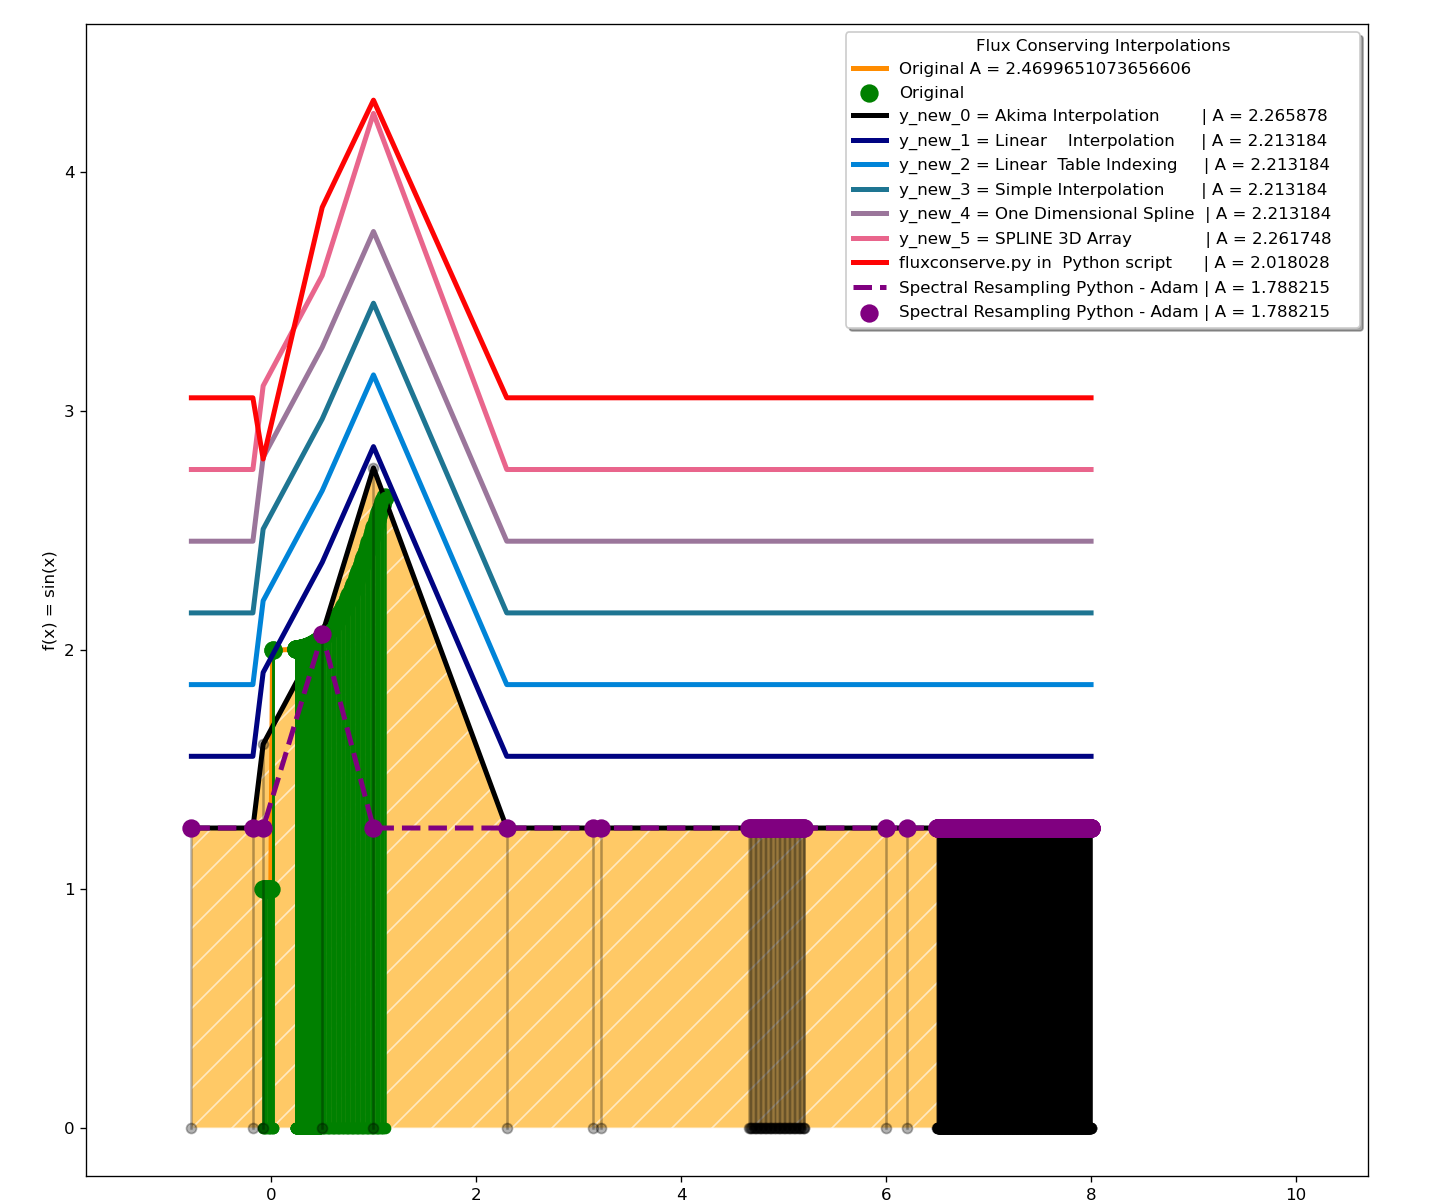
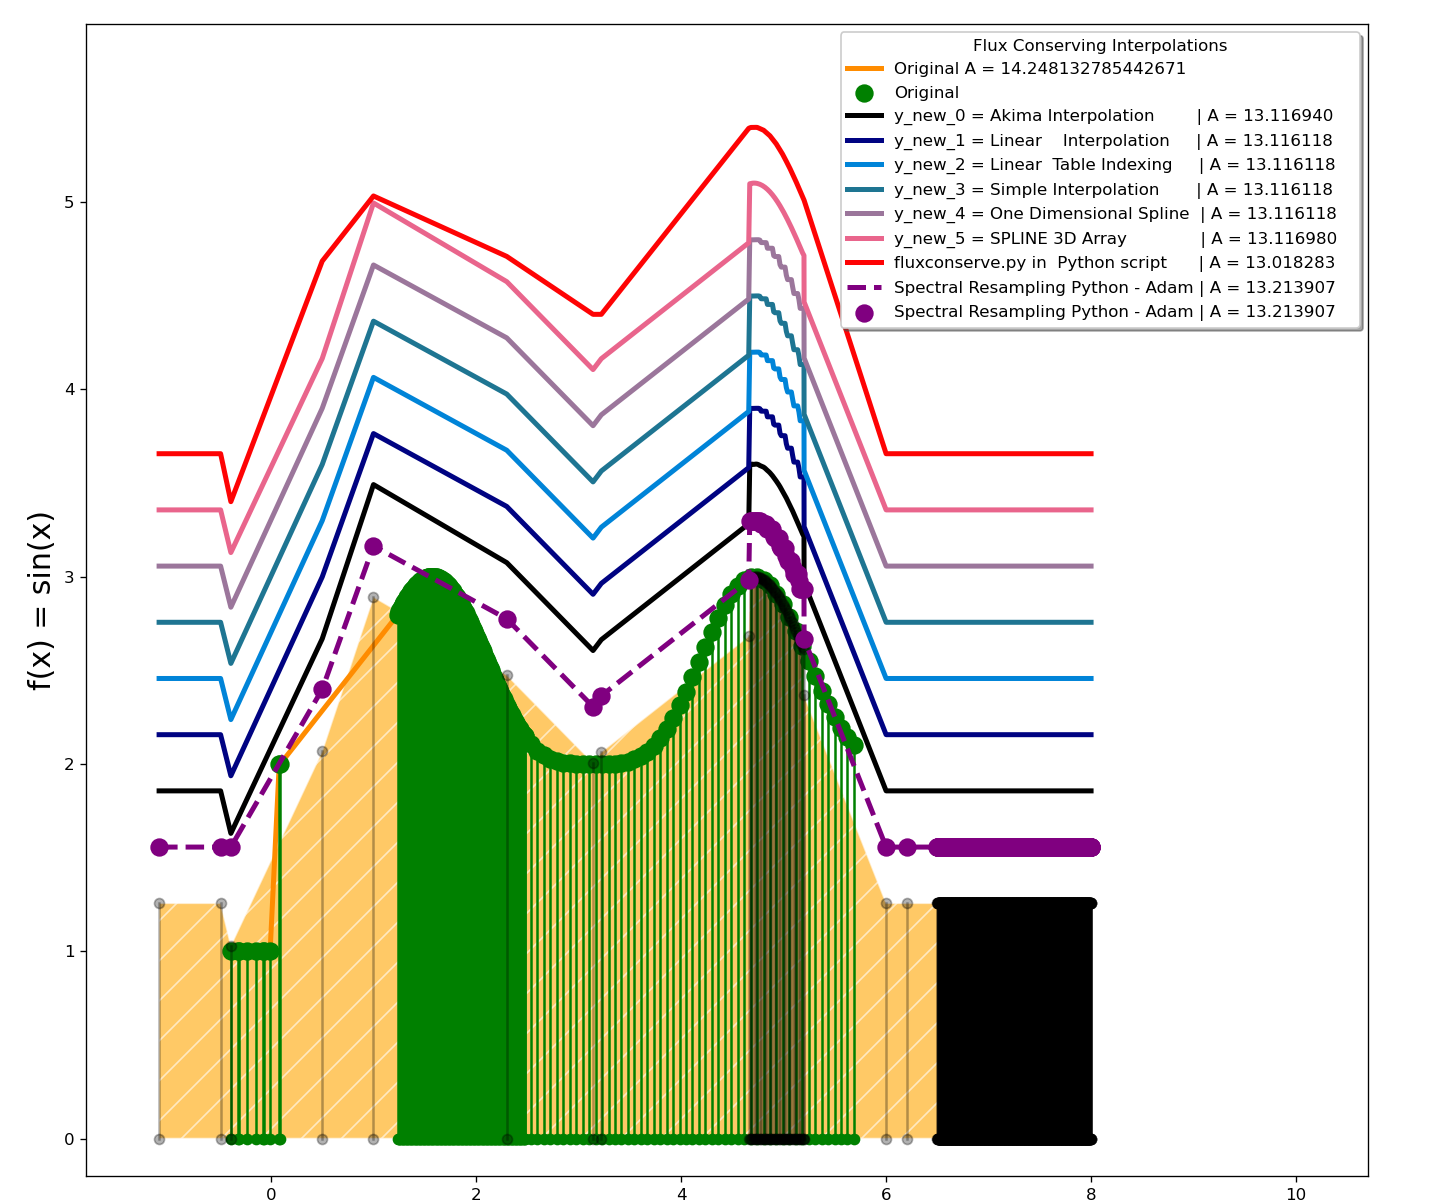
Added new README file

diff --git a/src/python/PyFluxConSpec.py b/src/python/PyFluxConSpec.py
@@ -173,7 +173,7 @@ author_fluxconspec in python
         plt.title('Original versus New Interpolated Values')
         plt.show()
     
-    def TestRoutine( z=5.52 ):
+    def TestRoutine( z=5.52, fill_val = 1.256 ):
         print("... Create a sine wave function")
         x1 = np.arange(-0.5,np.pi/2.0,0.23)
         x2 = np.arange(np.pi/2.0,np.pi,0.010)
@@ -203,7 +203,7 @@ author_fluxconspec in python
         slow_int = 0
         per_bins = 1
         
-        fill_val = 1.256
+        #fill_val = 1.256
         #fill_val = 0.0
         
         #x_new = [x[0]-0.1,x[0],0.5,1.0,2.3,3.22222,4.66,5.2,6.0,x[-1],x[-1]+0.1]
@@ -308,7 +308,7 @@ author_fluxconspec in python
         #print("... Interpolation of array:")
         #print(x_new)
         print()
-        print(d)
+        #print(d)
         
         Figure = plt.figure( figsize=(12,10),dpi=120,facecolor='w',edgecolor='w' )
         plt.subplots_adjust(bottom=.02, left=.06, right=.95, top=.98, wspace=0.0, hspace=0.0) 
@@ -324,7 +324,7 @@ author_fluxconspec in python
         xmax = +10.7
         
         ylimmin = -0.2
-        ylimmax = +5.2
+        ylimmax = +5.42
         ax1_top.set_xlim( xmin,xmax )
         ax1_top.set_ylim( ylimmin,ylimmax )
 
@@ -342,10 +342,10 @@ author_fluxconspec in python
             #print(i[1])
             
             if i[0] < len(d)-1:
-                ax1_top.plot(x_new,d[i[1]][0]+0.3*i[0],color=colors[i[0]],linewidth=3,label='{}'.format(i[1]),zorder=i[0]+2)
+                ax1_top.plot(x_new,d[i[1]][0]+0.3*(i[0]+1),color=colors[i[0]],linewidth=3,label='{}'.format(i[1]),zorder=i[0]+2)
             else:
-                ax1_top.plot(x_new,d[i[1]][0]+0.0*i[0],color='purple',linewidth=3,linestyle='--',label='{}'.format(i[1]),zorder=i[0]+2)
-                ax1_top.scatter(x_new,d[i[1]][0]+0.0*i[0],color='purple',s=100.0,label='{}'.format(i[1]),zorder=i[0]+3)
+                ax1_top.plot(x_new,d[i[1]][0]+0.0*(i[0]+1),color='purple',linewidth=3,linestyle='--',label='{}'.format(i[1]),zorder=i[0]+2)
+                ax1_top.scatter(x_new,d[i[1]][0]+0.0*(i[0]+1),color='purple',s=100.0,label='{}'.format(i[1]),zorder=i[0]+3)
 
         ax1_top.fill_between(x_new, y_new_, 0.0, facecolor='orange', alpha=0.6, edgecolor='white', hatch='/',zorder=0)
 
@@ -388,9 +388,13 @@ author_fluxconspec in python
         ax1_top.legend( [handles[idx] for idx in order],[labels[idx] for idx in order],title = "Flux Conserving Interpolations",fancybox=True, shadow=True,loc='upper right' ).set_zorder(1200)
 
         #ax1_top.legend()
-        ax1_top.set_xlabel("Radians")
-        ax1_top.set_ylabel("f(x) = sin(x)")
+        ax1_top.set_xlabel("Radians", fontsize=18)
+        ax1_top.set_ylabel("f(x) = sin(x)", fontsize=18)
         # Top plot ###########################################################
+        
+        # #
+        plt.savefig('fluxconserving.png')
+        plt.show()
         
         return
     
@@ -558,7 +562,7 @@ def main():
     i_object = PyFluxConSpec
     
     # TestRoutine
-    i_object.TestRoutine()
+    i_object.TestRoutine( z=0.27 )
     
     # time
     #i_object.time()
